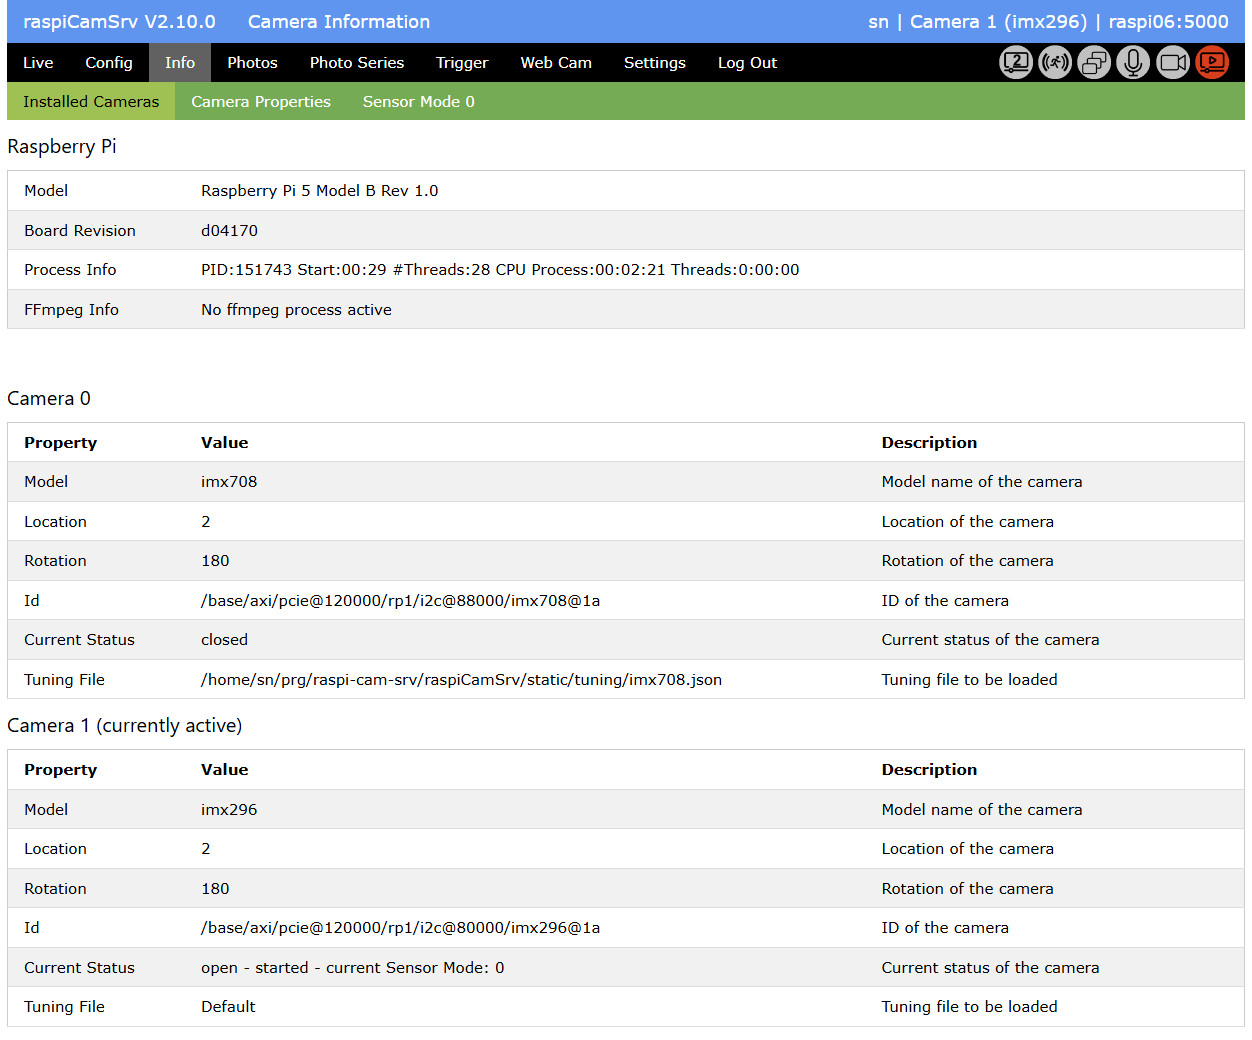
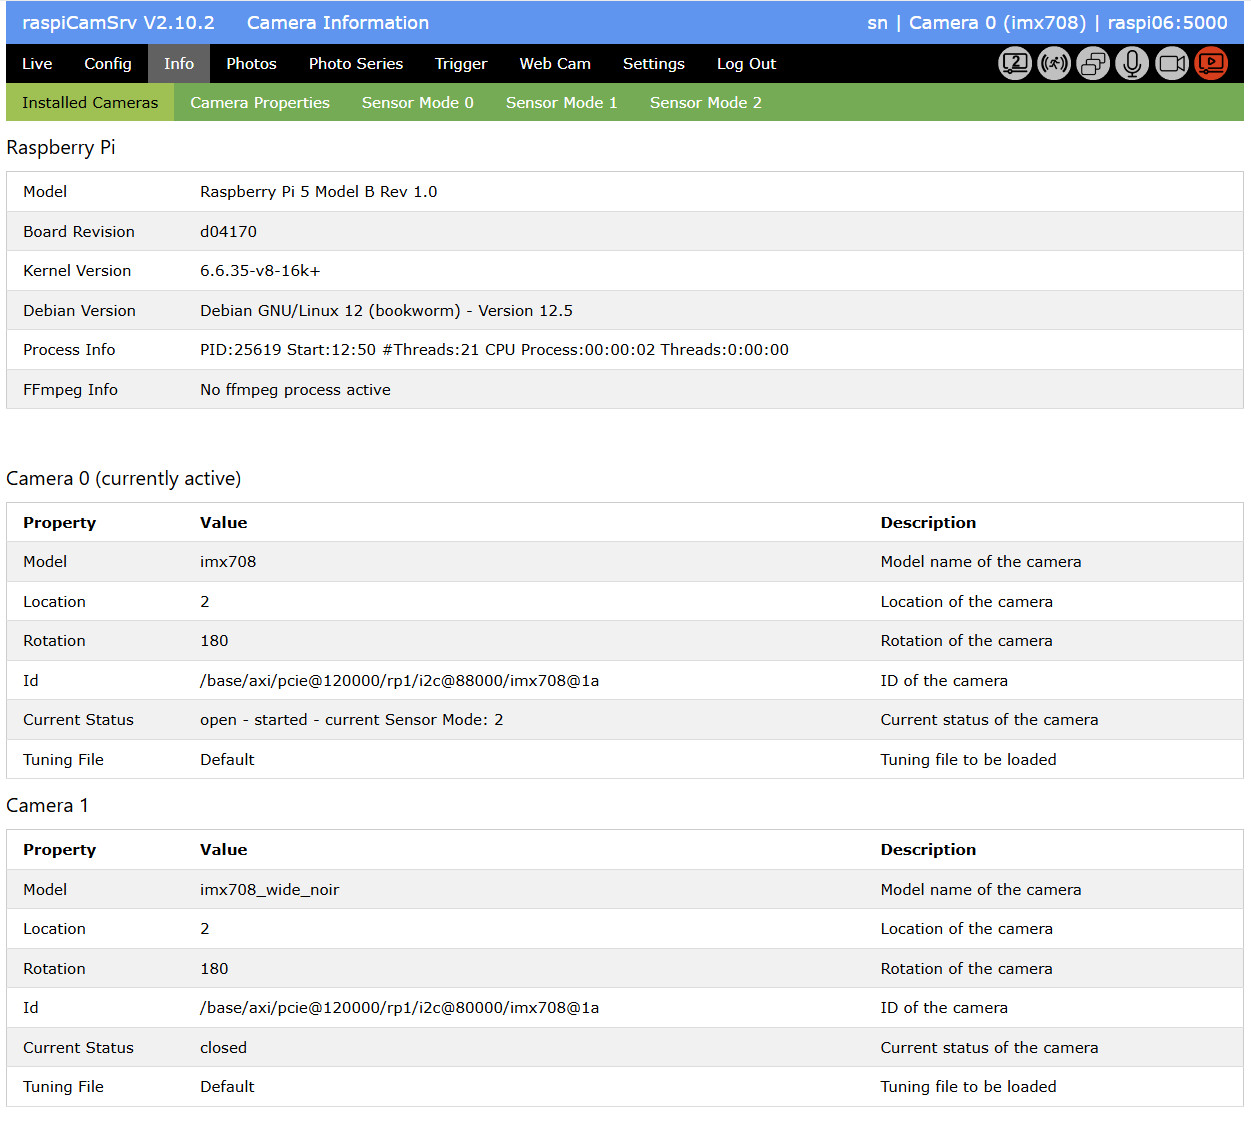
V2.10.2 Info extended

diff --git a/raspiCamSrv/templates/info/info.html b/raspiCamSrv/templates/info/info.html
@@ -27,6 +27,16 @@
                 <td></td>
             </tr>
             <tr>
+                <td>Kernel Version</td>
+                <td>{{sc.kernelVersion}}</td>
+                <td></td>
+            </tr>
+            <tr>
+                <td>Debian Version</td>
+                <td>{{sc.debianVersion}}</td>
+                <td></td>
+            </tr>
+            <tr>
                 <td>Process Info</td>
                 <td>{{sc.processInfo}}</td>
                 <td></td>

diff --git a/raspiCamSrv/camCfg.py b/raspiCamSrv/camCfg.py
@@ -2192,6 +2192,8 @@ class ServerConfig():
         self._raspiModelFull = ""
         self._raspiModelLower5 = False
         self._boardRevision = ""
+        self._kernelVersion = ""
+        self._debianVersion = ""
         self._activeCamera = 0
         self._activeCameraInfo = ""
         self._activeCameraModel = ""
@@ -2276,6 +2278,12 @@ class ServerConfig():
 
         boardRev = self.getBoardRevision()
         self._boardRevision = boardRev
+
+        debianVers = self.getDebianVersion()
+        self._debianVersion = debianVers
+
+        kernelVers = self.getKernelVersion()
+        self._kernelVersion = kernelVers
 
     @property
     def error(self) -> str:
@@ -2362,6 +2370,22 @@ class ServerConfig():
     @boardRevision.setter
     def boardRevision(self, value: str):
         self._boardRevision = value
+
+    @property
+    def kernelVersion(self) -> str:
+        return self._kernelVersion
+
+    @kernelVersion.setter
+    def kernelVersion(self, value: str):
+        self._kernelVersion = value
+
+    @property
+    def debianVersion(self) -> str:
+        return self._debianVersion
+
+    @debianVersion.setter
+    def debianVersion(self, value: str):
+        self._debianVersion = value
 
     @property
     def activeCamera(self) -> int:
@@ -3335,6 +3359,61 @@ class ServerConfig():
         
         logger.debug("CameraCfg.getBoardRevision - boardRev = %s", boardRev)
         return boardRev
+
+    def getDebianVersion(self):
+        """ Get the Debian Version of the installed OS
+        
+        """
+        logger.debug("CameraCfg.getDebianVersion")
+        debianVers = ""
+        try:
+            with open('/etc/debian_version','r') as f:
+                for line in f:
+                    debianVers += line
+        except Exception as e:
+            logger.error("Error opening /etc/debian_version : %s", e)
+            debianVers = ""
+        
+        debianVers = self.getLsbRelease() + " - Version " + debianVers
+        logger.debug("CameraCfg.getDebianVersion - debianVers = %s", debianVers)
+        return debianVers
+
+    def getKernelVersion(self):
+        """ Get the Kernel Version of the installed OS
+        
+        """
+        logger.debug("CameraCfg.getKernelVersion")
+        kernelVers = ""
+        try:
+            result = subprocess.run(["uname", "-r"], capture_output=True, text=True, check=True).stdout
+            for line in self._lineGen(result):
+                kernelVers += line.strip()
+        except Exception as e:
+            logger.error("Error opening /etc/debian_version : %s", e)
+            kernelVers = ""
+        
+        logger.debug("CameraCfg.getKernelVersion - kernelVers = %s", kernelVers)
+        return kernelVers
+
+    def getLsbRelease(self):
+        """ Get the LSB release of the installed OS
+        
+        """
+        logger.debug("CameraCfg.getLsbRelease")
+        lsbRelease = ""
+        try:
+            result = subprocess.run(["lsb_release", "-a"], capture_output=True, text=True, check=True).stdout
+            for line in self._lineGen(result):
+                logger.debug("CameraCfg.getLsbRelease - line:%s", line)
+                if line[0:12] == "Description:":
+                    lsbRelease = line[13:].strip()
+                    break
+        except Exception as e:
+            logger.error("Error executing lsb_release -a : %s", e)
+            lsbRelease = ""
+        
+        logger.debug("CameraCfg.getLsbRelease - lsbRelease = %s", lsbRelease)
+        return lsbRelease
 
     @staticmethod
     def _lineGen(s):

diff --git a/raspiCamSrv/version.py b/raspiCamSrv/version.py
@@ -1,1 +1,1 @@
-version="V2.10.1"
+version="V2.10.2"

diff --git a/docs/Information.md b/docs/Information.md
@@ -12,6 +12,8 @@ This screen contains several tabs with information on the camera system:
 
 This section shows information on the server hardware with *Model* and *Board Revision*
 
+For the operating system, the kernel version (result of ```uname -r```) and the Debian version (result of *Description* from ```lsb_release -a``` and ```cat /etc/debian_version```) are shown
+
 *Process Info* shows current process information for the raspiCamSrv server process (result of Linux ```ps -eLf``` command)
 - *PID*: Process ID of Flask process (PID)
 - *Start*: Process start time (STIME): either start time (HH:MM) at current day or day (MonDD) when process was started.

diff --git a/README.md b/README.md
@@ -9,7 +9,7 @@ Up to now, it was tested on Pi Zero W, Pi Zero 2 W, Pi 4 and Pi 5 running Bullse
 
 Due to responsive layout from [W3.CSS](https://www.w3schools.com/w3css/), all modern browsers on PC, Mac or mobile devices can be used as clients.
 
-## Feature Overview V2.10.1
+## Feature Overview V2.10.2
 For more details and [update procedure](./docs/ReleaseNotes.md#update-procedure), see the [User Guide](docs/UserGuide.md) and [Release Notes](./docs/ReleaseNotes.md).    
 For [installation procedure](#raspicamsrv-installation), see [below](#raspicamsrv-installation).
 

diff --git a/docs/ReleaseNotes.md b/docs/ReleaseNotes.md
@@ -28,6 +28,12 @@ or
 or    
 ```journalctl --user -e```
 
+## V2.10.2
+
+### New Features
+
+- Added kernel version and Debian version to [Info](./Information.md) screen.
+
 ## V2.10.1
 
 ### Bugfix
